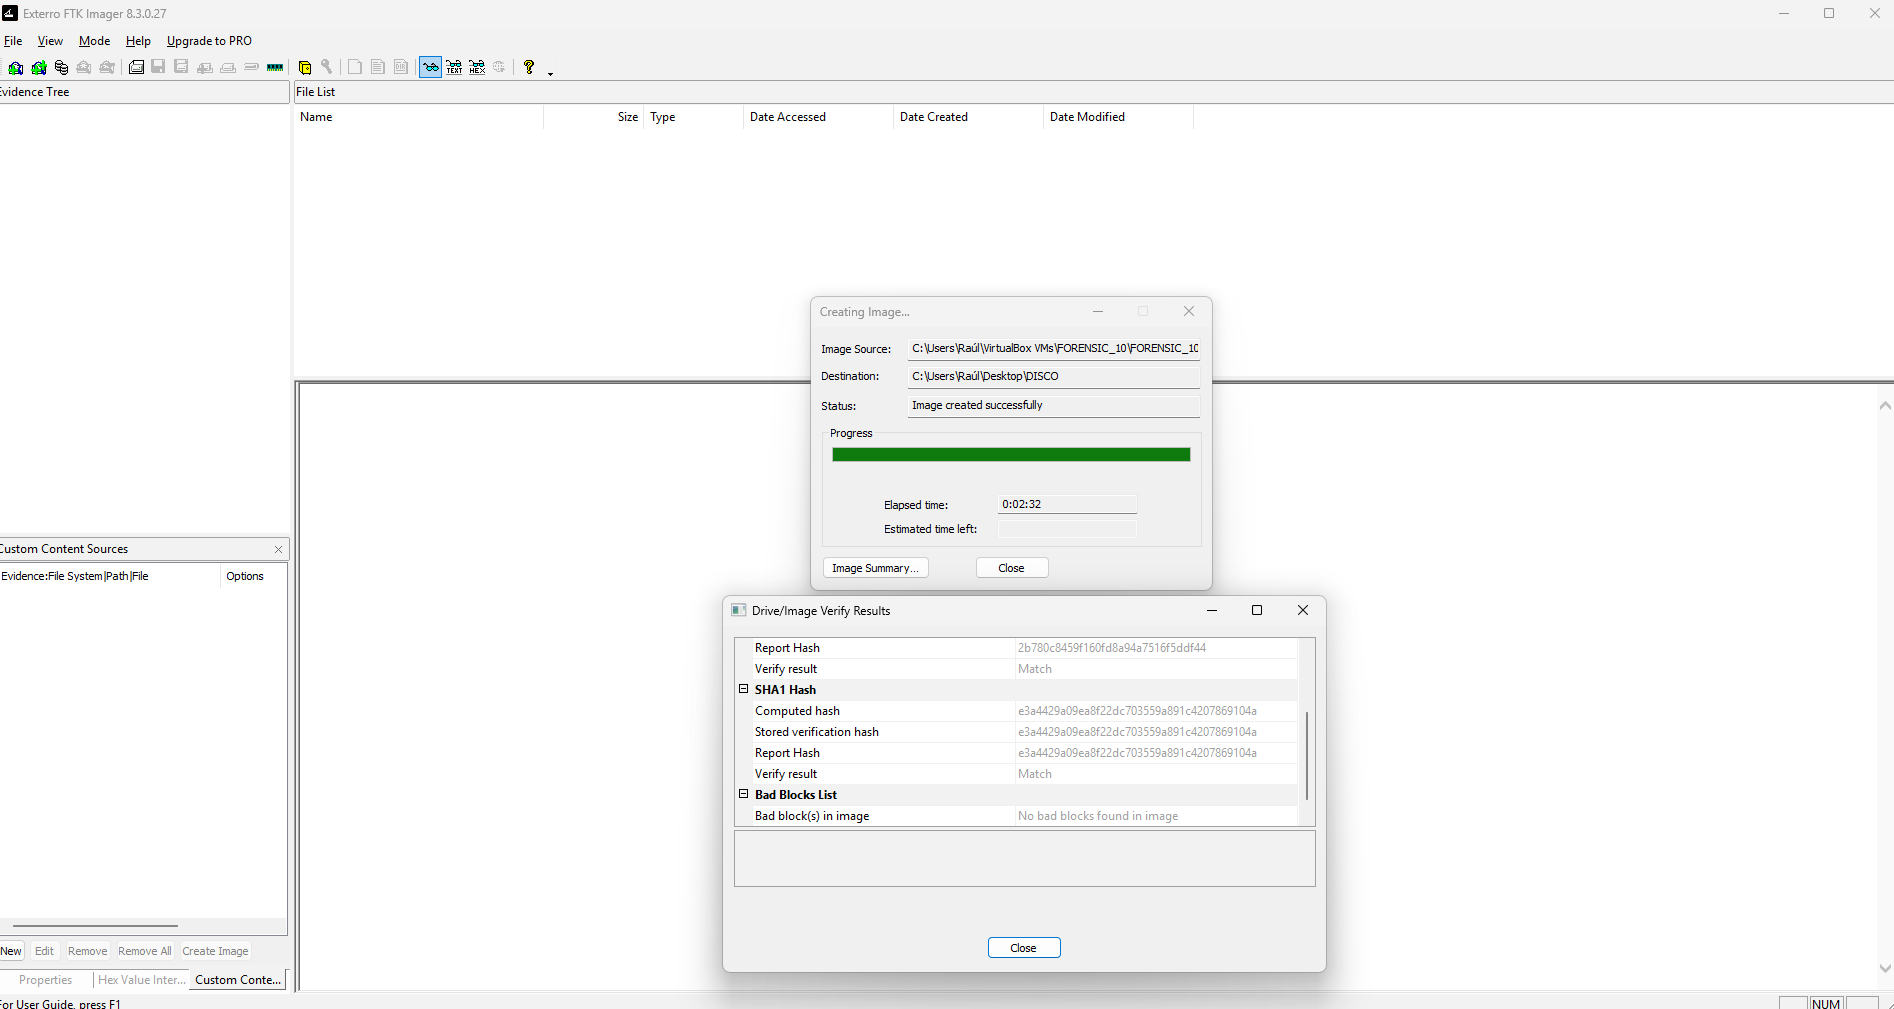
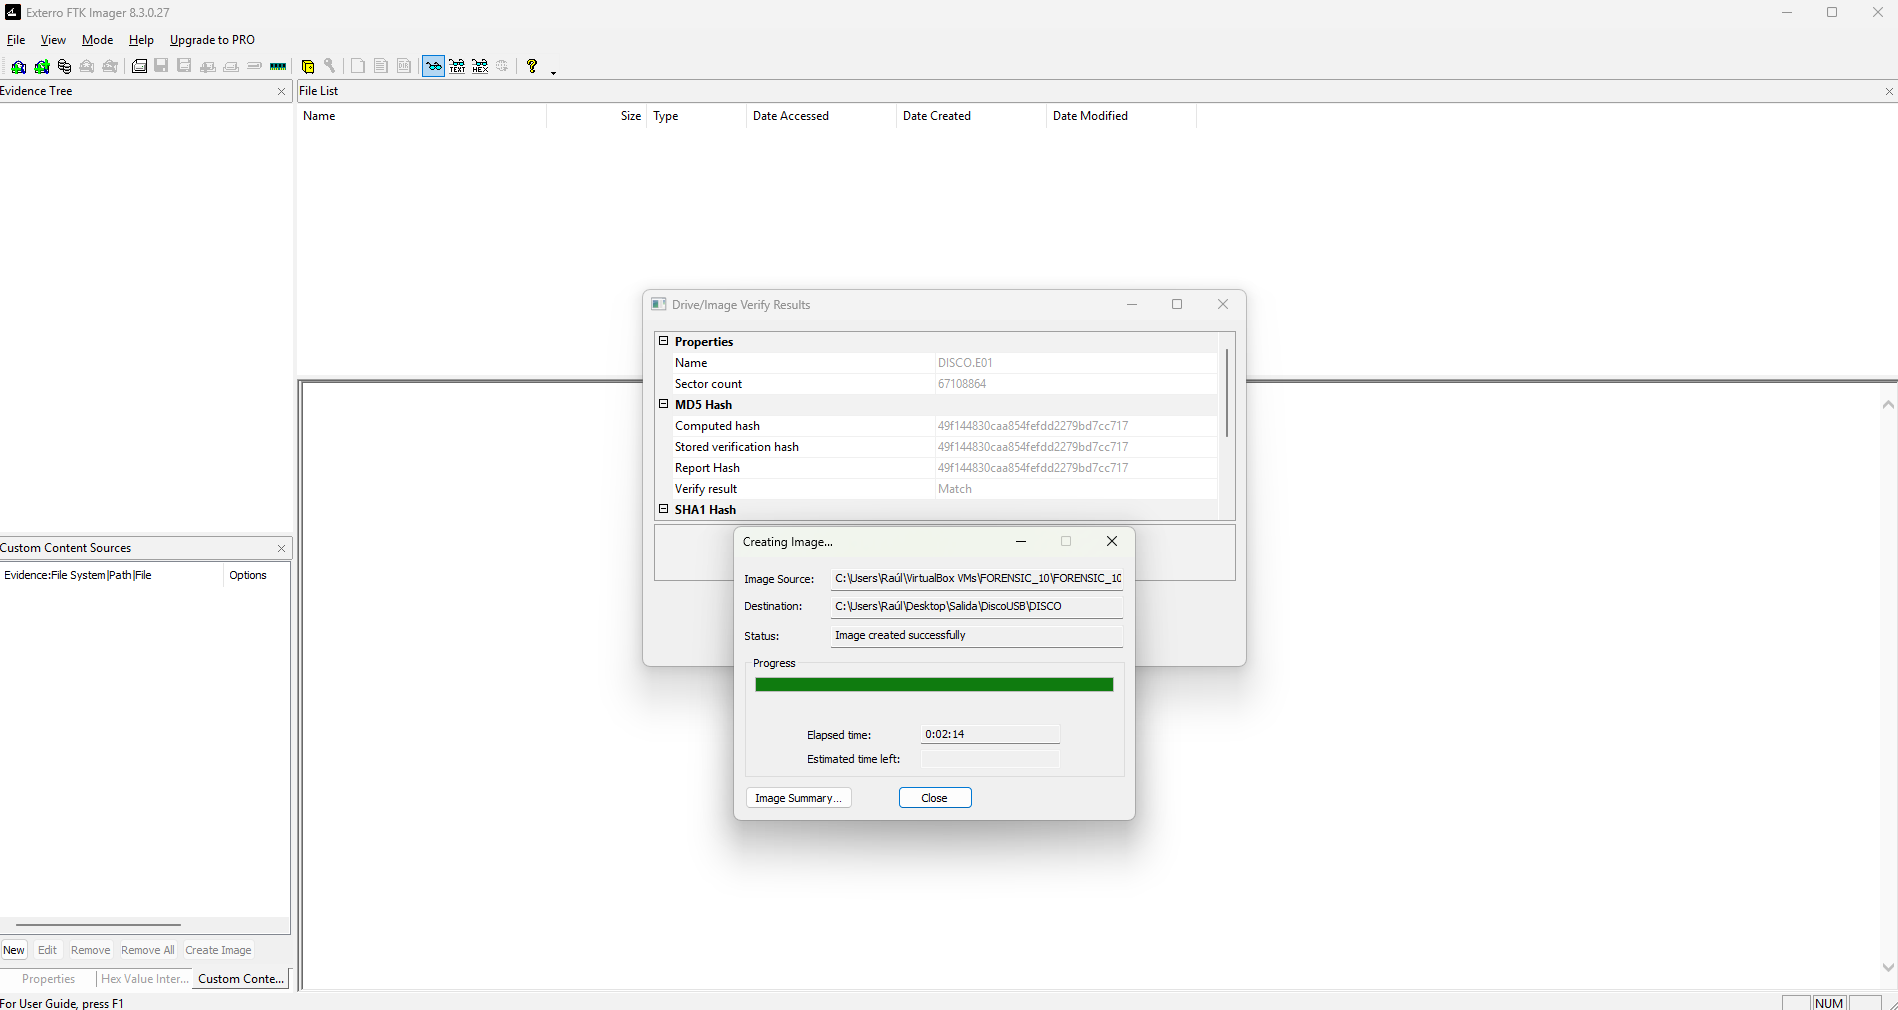
Correcciones

diff --git a/notas-de-trabajo.md b/notas-de-trabajo.md
@@ -27,6 +27,7 @@
 
 - [Captura del Bloc de notas con la marca](capturas/Marca1.png)
 - [Captura del archivo de marca en el escritorio](capturas/Marca2.png)
+- [Captura del Bloc de notas con la marca en el USB](capturas/Marca3.png)
 
 ---
 
@@ -428,6 +429,7 @@ FTK Imager permite adquirir el disco virtual apagado en formato E01 y verificar 
 - La verificación de FTK fue correcta: MD5 `2b780c8459f160fd8a94a7516f5ddf44` y SHA-1 `e3a4429a09ea8f22dc703559a891c4207869104a` coinciden con los hashes almacenados en la imagen y en el informe.
 - El manifiesto de SHA-256 de los segmentos está también en `hashes/hashes-imagenes-sha256.txt`.
 - Se calcularon los SHA-256 del VDI, la configuración `.vbox` y los registros de VirtualBox incluidos en `Adquisición/Imagen 2.1`; los resultados están en [hashes/FORENSIC_10-hashes-Imagen2.1.txt](hashes/FORENSIC_10-hashes-Imagen2.1.txt). La copia coincide con los archivos actuales de la carpeta de la máquina virtual.
+
 ### Evidencias
 
 - [Captura del proceso de adquisición de la imagen definitiva y su verificación](capturas/disco.png).
@@ -467,6 +469,11 @@ FTK Imager permitió adquirir el dispositivo físico en formato E01 y verificar 
 ### Configuración y comandos utilizados
 
 La adquisición se configuró mediante las interfaces de la utilidad de bloqueo USB y FTK Imager. No se conserva un comando de consola literal para estas operaciones. El registro `hashes/bloqueo-usb.log` consigna la activación de `WriteProtect=1` a las 17:31:04 y su desactivación (`WriteProtect=0`) a las 18:22:02.
+
+### Evidencias
+
+- [Captura del proceso de adquisición de la imagen del USB y su verificación](capturas/usb1.png).
+- [Captura de la imagen abierta en FTK Imager las dos particiones](capturas/usb2.png).
 
 ### Resultado y observaciones
 
